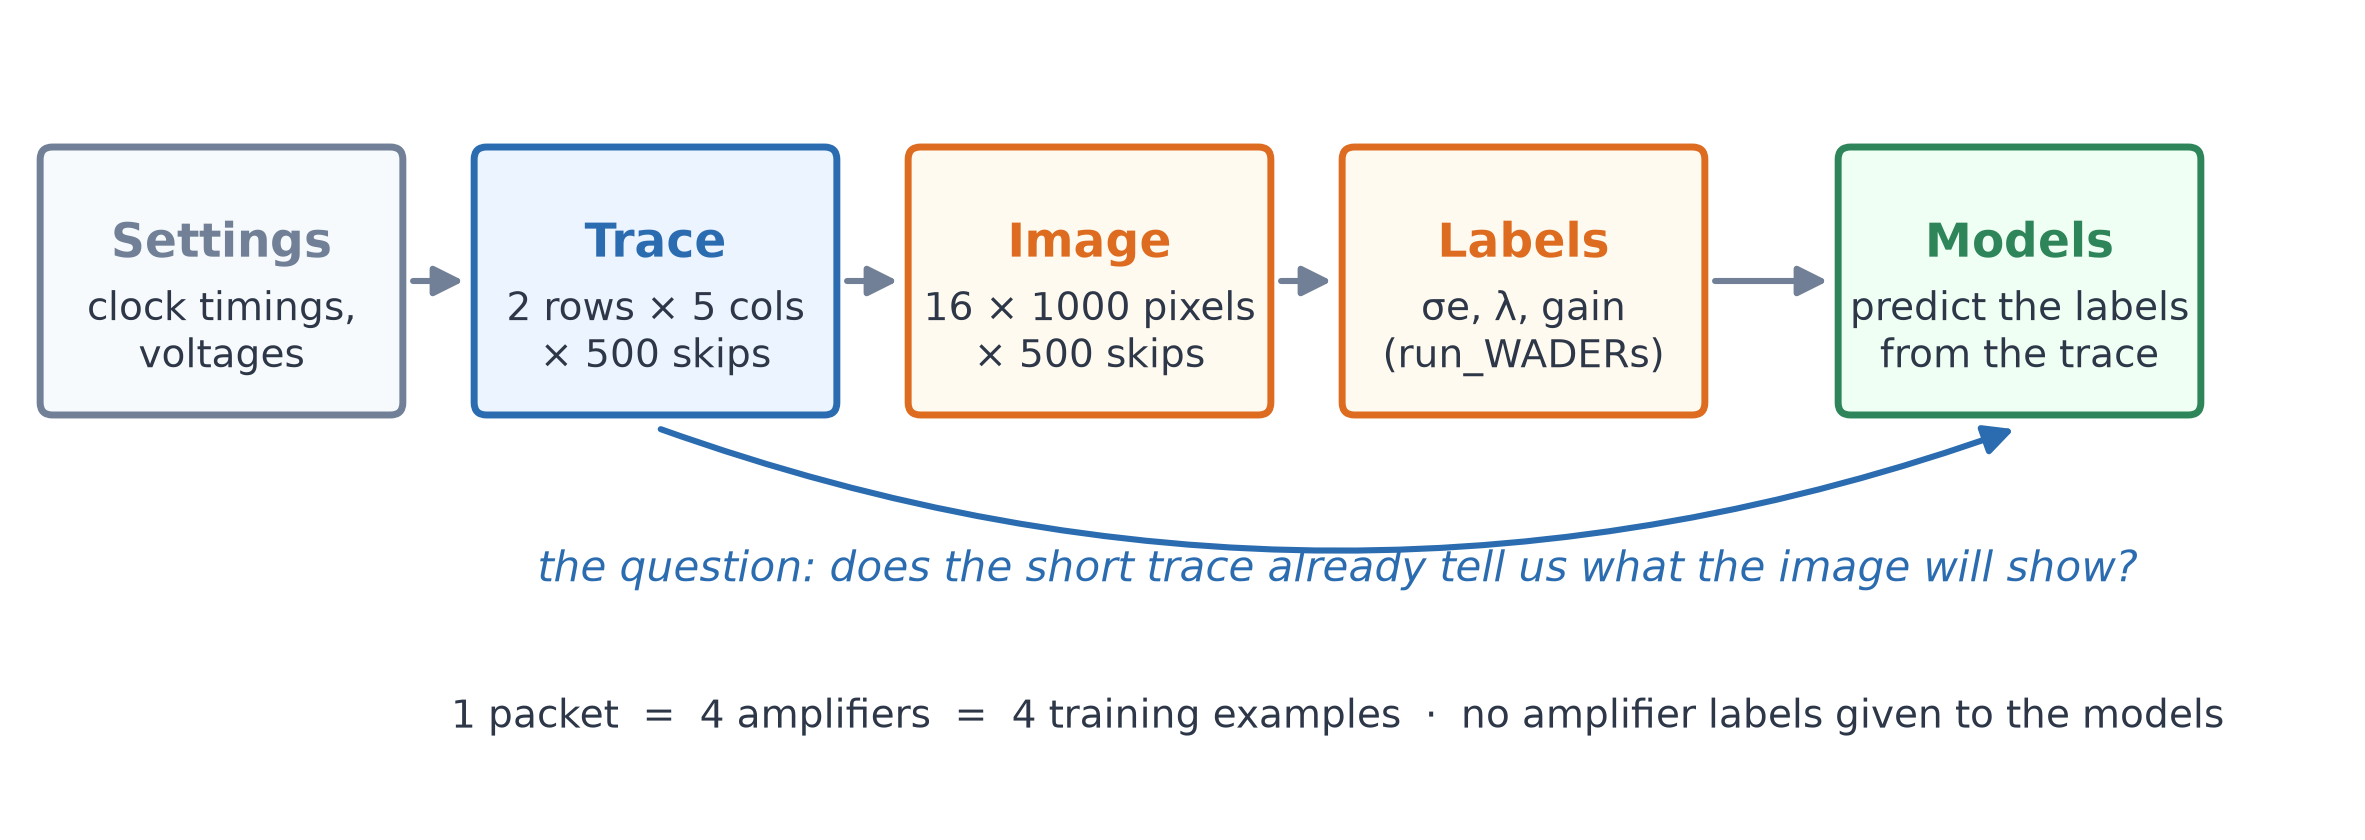
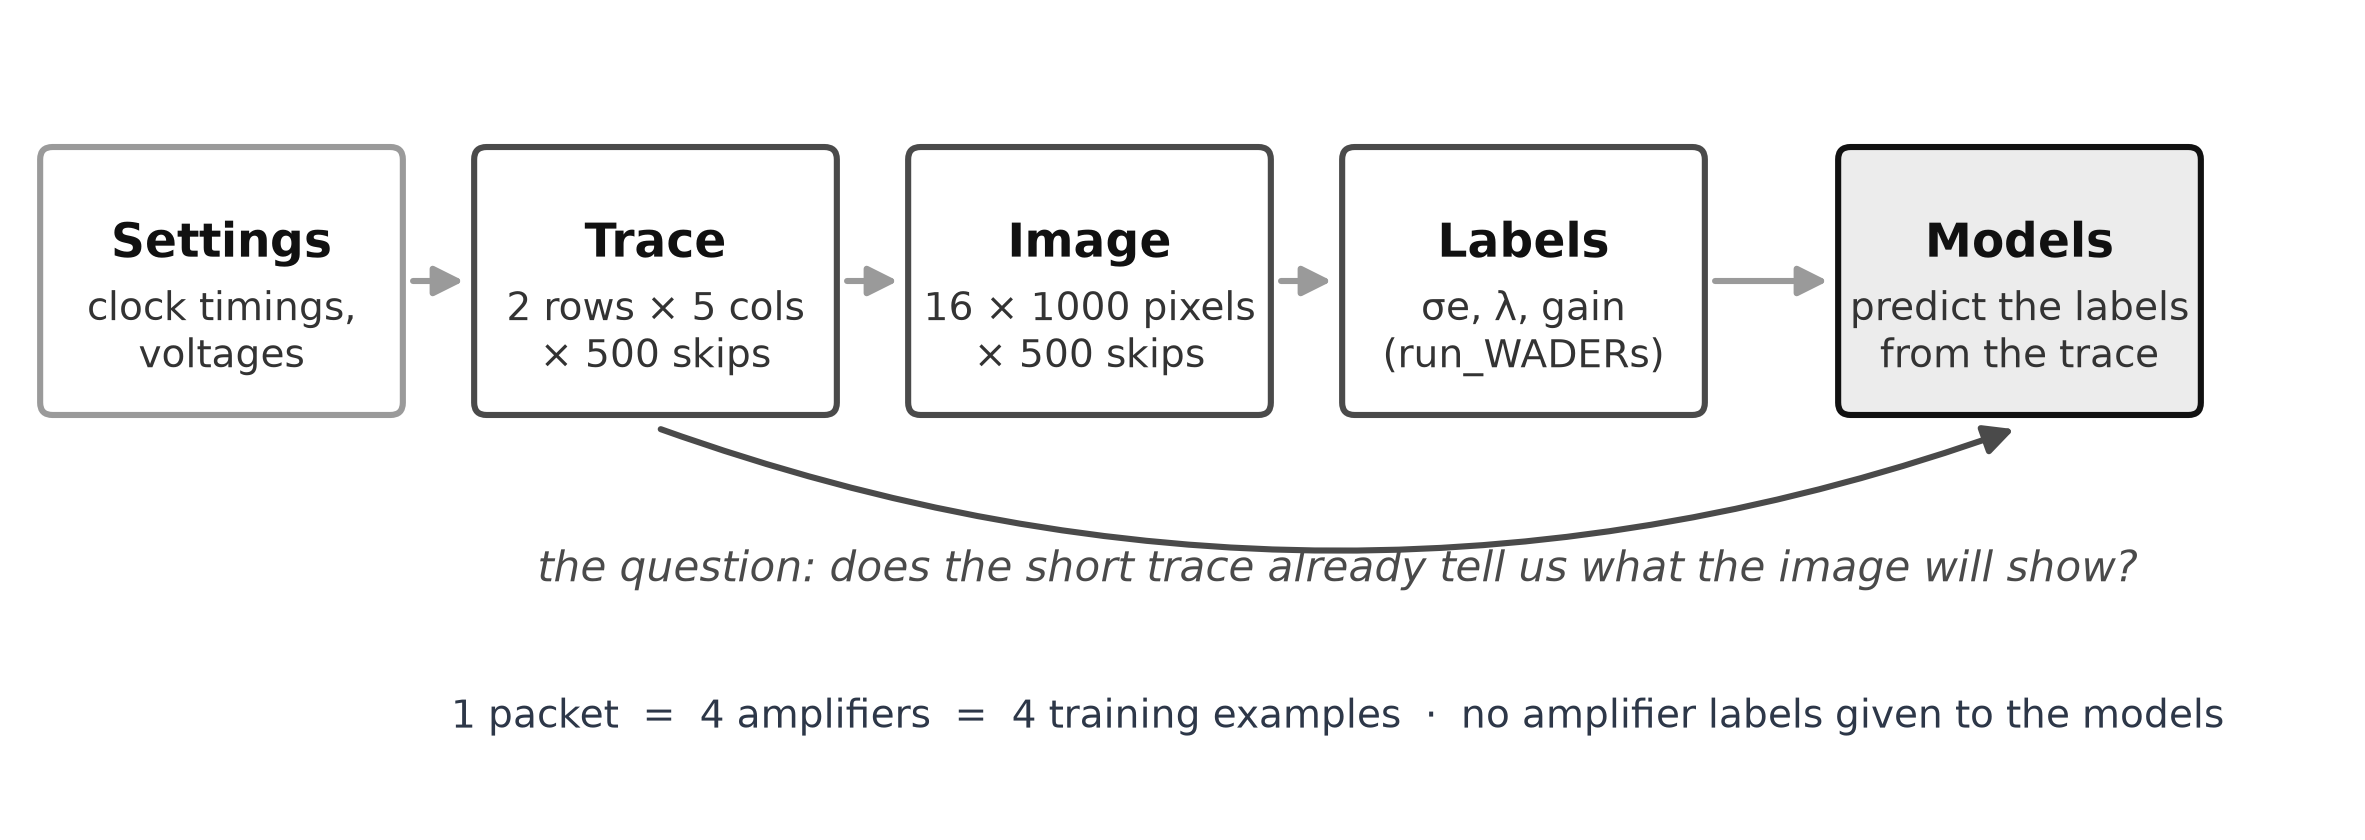
Slide deck v2: black-and-white diagrams, coloured data plots; new figures for the trace (anatomy from a real 2026-10-12 trace, Allan deviation and spectrum from trace_features), the processing pipeline and packet-grouped testing

diff --git a/docs/slides/make_slide_figures.py b/docs/slides/make_slide_figures.py
@@ -37,21 +37,24 @@ COMM = Path.home() / "Documents" / "Software" / "comm_scripts" / "docs"
 IMAGE_130 = ROOT / "data" / "2026-10-16-PA03_PQ04_16rows" / "avg_img_16x1000x500_1x1_L2_101_20261016_202914_130.fits.bz2"
 sys.path.insert(0, str(ROOT / "src"))
 
-# one colour per idea, on every slide
-TRACE, IMAGE, MODEL, GREY, RED = "#2b6cb0", "#dd6b20", "#2f855a", "#718096", "#c53030"
-LIGHT = {TRACE: "#ebf4ff", IMAGE: "#fffaf0", MODEL: "#f0fff4", GREY: "#f7fafc", RED: "#fff5f5"}
+# black and white (the deck's style): black = the result / after, light grey = before / baseline, dark grey = other
+TRACE, IMAGE, MODEL, GREY, RED = "#4a4a4a", "#4a4a4a", "#111111", "#9a9a9a", "#9a9a9a"
+INK = "#111111"
+# data plots keep colour (diagrams stay black and white): bad/before, good/after, a third series, neutral
+P_BAD, P_GOOD, P_BLUE, P_GREY = "#c53030", "#2f855a", "#2b6cb0", "#a0aec0"
+LIGHT = {TRACE: "#ffffff", MODEL: "#ececec", GREY: "#ffffff"}
 plt.rcParams.update({"font.size": 15, "axes.titlesize": 17, "axes.labelsize": 15, "axes.spines.top": False,
                      "axes.spines.right": False, "savefig.dpi": 200, "savefig.bbox": "tight", "font.family": "DejaVu Sans"})
 
 
 def box(ax, x, y, w, h, text, color, size=14, weight="normal", sub=None):
     ax.add_patch(FancyBboxPatch((x - w / 2, y - h / 2), w, h, boxstyle="round,pad=0.02,rounding_size=0.08",
-                                fc=LIGHT.get(color, "white"), ec=color, lw=2.5))
+                                fc=LIGHT.get(color, "white"), ec=color, lw=2.2))
     if sub:
-        ax.text(x, y + h * 0.14, text, ha="center", va="center", fontsize=size, weight="bold", color=color)
-        ax.text(x, y - h * 0.2, sub, ha="center", va="center", fontsize=size - 3, color="#2d3748")
+        ax.text(x, y + h * 0.14, text, ha="center", va="center", fontsize=size, weight="bold", color=INK)
+        ax.text(x, y - h * 0.2, sub, ha="center", va="center", fontsize=size - 3, color="#333333")
     else:
-        ax.text(x, y, text, ha="center", va="center", fontsize=size, weight=weight, color=color)
+        ax.text(x, y, text, ha="center", va="center", fontsize=size, weight=weight, color=INK)
 
 
 def arrow(ax, x0, y0, x1, y1, color=GREY):
@@ -97,7 +100,7 @@ def s1_levels():
         x, y = 1.6 + i * 2.9, 0.9 + i * 1.05
         box(ax, x, y, 2.75, 1.25, name, c, size=15, sub=f"{what}\n{how}")
         if now:
-            ax.text(x, y - 0.95, "◀ we are here", ha="center", fontsize=14, color=MODEL, weight="bold")
+            ax.text(x, y - 0.95, "◀ we are here", ha="center", fontsize=14, color=INK, weight="bold")
     fig.savefig(OUT / "s1_levels.png")
     plt.close(fig)
 
@@ -111,14 +114,14 @@ def s2_drift_profile():
     rep = idr.correct_image(IMAGE_130, corr_dir, "200", 0.05, 400, [0, 1, 3])
     fig, axes = plt.subplots(1, 2, figsize=(15, 5), sharey=True)
     for ax, ch in zip(axes, (0, 1)):
-        for path, shift, color, label in ((IMAGE_130, 0, RED, "as read out"), (Path(rep["output"]), rep["cut"], MODEL, "after the drift step")):
+        for path, shift, color, label in ((IMAGE_130, 0, P_BAD, "as read out"), (Path(rep["output"]), rep["cut"], P_GOOD, "after the drift step")):
             h = open_any(Path(path))
             hd = [x for x in h[1:] if getattr(x, "data", None) is not None and x.data.ndim == 2]
             na = idr.n_active(h[0].header, hd[0].data.shape[1])
             pr = analyse_channel(hd[ch].data.astype(float), na, 0.05)["profile"]
             ok = np.isfinite(pr["off"])
-            ax.errorbar(pr["c"][ok] + shift, pr["off"][ok], pr["off_err"][ok], fmt="o-", ms=4, lw=1.5, color=color,
-                        label=label, capsize=0)
+            ax.errorbar(pr["c"][ok] + shift, pr["off"][ok], pr["off_err"][ok], fmt="o-", ms=5, lw=1.5, color=color,
+                        mfc=color, label=label, capsize=0)
         ax.axvspan(0, rep["cut"], color=GREY, alpha=0.12)
         ax.text(rep["cut"] / 2, -0.95, f"first {rep['cut']}\ncolumns\ncut", ha="center", fontsize=12, color=GREY)
         ax.axhline(0, color="k", lw=1)
@@ -139,7 +142,7 @@ def s2_chi2():
     fig, ax = plt.subplots(figsize=(8, 5))
     chans = sorted(df["channel"].unique())
     x = np.arange(len(chans))
-    for k, (version, color, dx) in enumerate((("as is", RED, -0.2), ("drift-corrected", MODEL, 0.2))):
+    for k, (version, color, dx) in enumerate((("as is", P_BAD, -0.2), ("drift-corrected", P_GOOD, 0.2))):
         sub = df[df["version"] == version]
         med = [sub[sub.channel == c]["chi2ndf"].median() for c in chans]
         ax.bar(x + dx, med, 0.38, color=color, label=version)
@@ -187,8 +190,8 @@ def s3_label_error():
     rep = ROOT / "lvl1" / "rehearsal_report"
     fig, ax = plt.subplots(figsize=(9, 5))
     names = [("sigma_e", "σe"), ("lambda", "λ"), ("gain", "gain")]
-    for k, (fname, color, dx, label) in enumerate((("4_check_json.md", RED, -0.17, "hand-written JSON"),
-                                                    ("4_check_run_WADERs.md", MODEL, 0.17, "run_WADERs"))):
+    for k, (fname, color, dx, label) in enumerate((("4_check_json.md", P_BAD, -0.17, "hand-written JSON"),
+                                                    ("4_check_run_WADERs.md", P_GOOD, 0.17, "run_WADERs"))):
         df = _rehearsal_table(rep / fname)
         df = df[df["flags"] == ""]
         for i, (q, _) in enumerate(names):
@@ -220,8 +223,8 @@ def s3_fit_quality_table():
         cell.set_edgecolor("#cbd5e0")
         if r == 0:
             cell.set_height(cell.get_height() * 1.7)
-            cell.set_facecolor(LIGHT[MODEL])
-            cell.set_text_props(weight="bold", color=MODEL)
+            cell.set_facecolor("#ececec")
+            cell.set_text_props(weight="bold", color=INK)
     ax.set_title("fit_quality.csv  (image 130, after the drift step)", fontsize=15, family="monospace")
     fig.savefig(OUT / "s3_fit_quality_table.png")
     plt.close(fig)
@@ -251,16 +254,19 @@ def s4_model_errors():
     for ax, t, name in zip(axes, ("sigma_e", "lambda"), ("read noise σe", "dark charge λ")):
         base = df[(df.model == "mean")][t].mean()
         m = df[df.model != "mean"].groupby("model")[t].agg(["mean", "min", "max"]).reindex(order).dropna()
-        colors = [MODEL if k.startswith(("physics", "sets")) else (TRACE if k in ("cnn", "pretrained", "deep_kernel") else GREY) for k in m.index]
+        colors = [P_GOOD if k.startswith(("physics", "sets")) else (P_BLUE if k in ("cnn", "pretrained", "deep_kernel") else P_GREY) for k in m.index]
         y = np.arange(len(m))
         ax.barh(y, m["mean"], color=colors, xerr=[m["mean"] - m["min"], m["max"] - m["mean"]], ecolor="#4a5568", capsize=3)
-        ax.axvline(base, color=RED, ls="--", lw=2)
-        ax.text(base, len(m) - 0.4, f"  predict the average: {base:.0f} %", color=RED, fontsize=12, va="center")
+        ax.axvline(base, color=P_BAD, ls="--", lw=2)
+        ax.text(base, len(m) - 0.4, f"  predict the average: {base:.0f} %", color=P_BAD, fontsize=12, va="center")
         ax.set_yticks(y, m.index)
         ax.invert_yaxis()
         ax.set_xlabel("typical error [%]")
         ax.set_title(name)
         ax.set_xlim(0, base * 1.35)
+    from matplotlib.patches import Patch
+    axes[1].legend(handles=[Patch(color=P_GREY, label="settings / hand-made features"), Patch(color=P_BLUE, label="neural networks"),
+                            Patch(color=P_GOOD, label="physics-based")], frameon=False, loc="lower right", fontsize=12)
     fig.suptitle("Synthetic test, 41 packets (the planned dataset): bar = mean of 3 datasets, line = range", fontsize=16, y=1.02)
     fig.savefig(OUT / "s4_model_errors.png")
     plt.close(fig)
@@ -271,11 +277,11 @@ def s4_saas():
     before, after = [19.1, 10.9, 4.9], [15.1, 7.4, 3.9]
     fig, ax = plt.subplots(figsize=(7, 4.5))
     x = np.arange(3)
-    ax.bar(x - 0.19, before, 0.36, color=GREY, label="before")
-    ax.bar(x + 0.19, after, 0.36, color=MODEL, label="SAAS GP")
+    ax.bar(x - 0.19, before, 0.36, color=P_GREY, label="before")
+    ax.bar(x + 0.19, after, 0.36, color=P_GOOD, label="SAAS GP")
     for i in range(3):
         ax.text(x[i] - 0.19, before[i] + 0.3, f"{before[i]:.1f}", ha="center", fontsize=12)
-        ax.text(x[i] + 0.19, after[i] + 0.3, f"{after[i]:.1f}", ha="center", fontsize=12, color=MODEL, weight="bold")
+        ax.text(x[i] + 0.19, after[i] + 0.3, f"{after[i]:.1f}", ha="center", fontsize=12, color=P_GOOD, weight="bold")
     ax.set_xticks(x, [f"{s} packets" for s in sizes])
     ax.set_ylabel("λ error [%]")
     ax.set_title("Physics model: λ with a SAAS GP")
@@ -293,8 +299,8 @@ def s5_timeline():
     scale = 14.4 / 41
     for name, what, n, hours, c in sessions:
         w = n * scale
-        ax.add_patch(FancyBboxPatch((x, 1.0), w - 0.12, 1.1, boxstyle="round,pad=0.02,rounding_size=0.1", fc=LIGHT[c], ec=c, lw=2.5))
-        ax.text(x + w / 2, 1.75, f"Session {name}: {n} packets", ha="center", fontsize=15, weight="bold", color=c)
+        ax.add_patch(FancyBboxPatch((x, 1.0), w - 0.12, 1.1, boxstyle="round,pad=0.02,rounding_size=0.1", fc="white", ec=INK, lw=2.2))
+        ax.text(x + w / 2, 1.75, f"Session {name}: {n} packets", ha="center", fontsize=15, weight="bold", color=INK)
         ax.text(x + w / 2, 1.3, f"{what} · ~{hours} h", ha="center", fontsize=12.5, color="#2d3748")
         x += w
     ax.text(0.3, 0.45, "first lvl-1 report possible after session A", fontsize=13, color=TRACE, style="italic")
@@ -322,8 +328,168 @@ def gc_figures():
     _crop("gain_correction_Am241.pdf", 2, (0.0, 0.551, 1.0, 1.0), "gc_am241")
 
 
+# --------------------------------------------------------------------------- the trace
+TRACE_FILE = ROOT / "data" / "2026-10-12-PA03_PQ04_Packet_Tests" / "trace_2x5x500_20x20_ch0_101_20261012_185604_32.RJ45ADCDATA0"
+PIXEL = 3          # a pixel that does not start a row
+
+
+def _trace():
+    import json
+    from decode_trace import SAMPLE_RATE_HZ, decode_trace
+    from trace_regions import split_regions
+    t = decode_trace(TRACE_FILE)
+    meta = json.loads(TRACE_FILE.with_suffix(".meta").read_text())
+    return t, split_regions(t, meta), SAMPLE_RATE_HZ
+
+
+def t_trace_anatomy():
+    t, r, fs = _trace()
+    v = t.values.astype(float)
+    fig = plt.figure(figsize=(16, 8.2))
+    gs = fig.add_gridspec(2, 2, height_ratios=[1, 1.05], hspace=0.45, wspace=0.22)
+    # (a) the whole trace: min/max envelope
+    ax = fig.add_subplot(gs[0, :])
+    nb = 4000
+    edges = np.linspace(0, len(v), nb + 1).astype(int)
+    lo = np.array([v[a:b].min() for a, b in zip(edges[:-1], edges[1:])])
+    hi = np.array([v[a:b].max() for a, b in zip(edges[:-1], edges[1:])])
+    tm = edges[:-1] / fs * 1e3
+    for k, (a, b) in enumerate(r.skip_bounds):
+        ax.axvspan(a / fs * 1e3, b / fs * 1e3, color="#e4e4e4", lw=0)
+        ax.text((a + b) / 2 / fs * 1e3, 1.02, f"pixel {k + 1}", transform=ax.get_xaxis_transform(), ha="center", fontsize=11)
+    if r.v_bounds:
+        ax.axvspan(r.v_bounds[0] / fs * 1e3, r.v_bounds[1] / fs * 1e3, color="#b0b0b0", lw=0)
+        ax.text(np.mean(r.v_bounds) / fs * 1e3, 0.05, "row\nchange", transform=ax.get_xaxis_transform(), ha="center", fontsize=11)
+    ax.fill_between(tm, lo, hi, color=P_BLUE, lw=0)
+    ax.set_xlim(0, len(v) / fs * 1e3)
+    ax.set_xlabel("time [ms]")
+    ax.set_ylabel("ADC [ADU]")
+    ax.set_title("A whole trace: 2 rows × 5 pixels, each pixel read 500 times (grey bands)", pad=26)
+    # (b) three skip cycles of one pixel
+    ax = fig.add_subplot(gs[1, 0])
+    ps, pe = t.window_slices()
+    ss, se = t.signal_window_slices()
+    a0, b0 = r.skip_bounds[PIXEL]
+    k = np.flatnonzero(ps >= a0)[20]
+    a, b = ps[k] - 40, ps[k] + 3 * r.period
+    x = (np.arange(a, b) - a) / fs * 1e6
+    for s_, e_ in zip(ps, pe):
+        if a <= s_ < b:
+            ax.axvspan((s_ - a) / fs * 1e6, (e_ - a) / fs * 1e6, color="#d0d0d0", lw=0)
+    for s_, e_ in zip(ss, se):
+        if a <= s_ < b:
+            ax.axvspan((s_ - a) / fs * 1e6, (e_ - a) / fs * 1e6, facecolor="white", edgecolor="#555555", hatch="///", lw=0)
+    ax.plot(x, v[a:b] - np.median(v[a:b]), color=P_BLUE, lw=1.4)
+    ax.set_ylim(-30000, 60000)
+    ax.set_xlabel("time [µs]")
+    ax.set_ylabel("ADC [ADU]")
+    ax.set_title("Zoom: three reads (skips) of one pixel")
+    from matplotlib.patches import Patch
+    ax.legend(handles=[Patch(color="#d0d0d0", label="pedestal window"), Patch(facecolor="white", edgecolor="#555555", hatch="///", label="signal window")],
+              frameon=False, loc="upper left", fontsize=12)
+    # (c) CDS per skip
+    ax = fig.add_subplot(gs[1, 1])
+    c = np.asarray(r.cds[PIXEL], float)
+    ax.plot(np.arange(len(c)), c, "o", ms=3, color=P_BLUE)
+    ax.axhline(np.median(c[10:]), color=GREY, ls="--", lw=1.5)
+    ax.set_ylim(np.median(c) - 120, np.median(c) + 330)
+    ax.annotate("first reads:\nsettling", xy=(1, c[0]), xytext=(60, c[0] - 40), fontsize=12, arrowprops=dict(arrowstyle="->", color=INK))
+    ax.set_xlabel("skip number")
+    ax.set_ylabel("pedestal − signal [ADU]")
+    ax.set_title("One number per skip (CDS): 500 per pixel")
+    fig.savefig(OUT / "t_trace_anatomy.png")
+    plt.close(fig)
+
+
+def t_trace_noise():
+    """The trace's own noise curves, exactly as the models get them (trace_features.py)."""
+    from trace_features import ALLAN_N, trace_features
+    t, r, fs = _trace()
+    import json
+    f = trace_features(t, meta=json.loads(TRACE_FILE.with_suffix(".meta").read_text()), regions=r)
+    fig, axes = plt.subplots(1, 2, figsize=(15, 5.2))
+    ax = axes[0]
+    ns = np.asarray(ALLAN_N, float)
+    m = np.asarray(f.curves["noise: Allan deviation, common pattern removed"], float)
+    ax.loglog(ns, m, "o-", color=P_BLUE, ms=7, lw=2, label="this trace")
+    ax.loglog(ns, m[0] / np.sqrt(ns), "--", color=GREY, lw=2, label="pure white noise: 1/√n")
+    ax.set_xlabel("skips averaged, n")
+    ax.set_ylabel("Allan deviation [ADU]")
+    ax.set_title("Averaging skips: how fast the noise falls")
+    ax.legend(frameon=False, fontsize=12)
+    ax = axes[1]
+    spec = np.asarray(f.curves["noise: CDS spectrum"], float)
+    fr = np.linspace(0, 15.0, len(spec))
+    ax.semilogy(fr[2:], spec[2:], color=P_BLUE, lw=1.5)
+    ax.set_xlabel("frequency [kHz]")
+    ax.set_ylabel("power [ADU²/Hz]")
+    ax.set_title("Which frequencies the noise lives at")
+    fig.savefig(OUT / "t_trace_noise.png")
+    plt.close(fig)
+
+
+# --------------------------------------------------------------------------- processing and testing
+def p_processing():
+    fig, ax = canvas(19, 6.6, (0, 19), (0, 6.6))
+    box(ax, 1.55, 3.3, 2.9, 1.7, "manual_packet.sh", INK, size=14, sub="on the DAQ:\nqueue the packet,\nwrite its record")
+    box(ax, 4.6, 3.3, 2.6, 1.7, "manifest", INK, size=14, sub="settings read back,\nchanges checked")
+    arrow(ax, 3.0, 3.3, 3.25, 3.3, INK)
+    ax.add_patch(FancyBboxPatch((6.0, 0.55), 7.1, 5.4, boxstyle="round,pad=0.02,rounding_size=0.12", fc="#f6f6f6", ec=GREY, lw=1.5, ls="--"))
+    ax.text(9.55, 5.65, "process_packet.py", ha="center", fontsize=15, weight="bold", family="monospace")
+    ax.text(6.25, 4.95, "traces", fontsize=13, style="italic")
+    ax.text(6.25, 2.15, "image", fontsize=13, style="italic")
+    lanes = [(4.0, [("decode", "quality check"), ("features", "85 numbers,\n14 curves"), ("combine", "repeated sets")]),
+             (1.35, [("drift step", "detect, cut,\ncorrect"), ("run_WADERs", "σe, λ, gain\n+ flags"), ("λ per row", "dark current\n+ CIC")])]
+    for y, steps in lanes:
+        for i, (t, s) in enumerate(steps):
+            box(ax, 7.2 + i * 2.35, y, 2.05, 1.45, t, TRACE, size=13, sub=s)
+            if i:
+                arrow(ax, 7.2 + (i - 1) * 2.35 + 1.05, y, 7.2 + i * 2.35 - 1.05, y, INK)
+    arrow(ax, 5.95, 3.6, 6.15, 4.0, INK)
+    arrow(ax, 5.95, 3.0, 6.15, 1.35, INK)
+    box(ax, 14.8, 4.3, 2.6, 1.5, "dataset.csv", INK, size=14, sub="one row per\namplifier")
+    box(ax, 14.8, 2.1, 2.6, 1.5, "model_inputs", MODEL, size=14, sub="5 files, one per\nmodel family")
+    arrow(ax, 13.15, 3.3, 13.45, 4.3, INK)
+    arrow(ax, 14.8, 3.5, 14.8, 2.9, INK)
+    box(ax, 17.6, 2.1, 2.3, 1.5, "train_lvl1.py", MODEL, size=14, sub="train, test,\nreport")
+    arrow(ax, 16.15, 2.1, 16.4, 2.1, INK)
+    fig.savefig(OUT / "p_processing.png")
+    plt.close(fig)
+
+
+def m_cv():
+    n_pk, n_amp = 12, 4
+    rng = np.random.default_rng(3)
+    fig, axes = plt.subplots(1, 2, figsize=(15, 4.6))
+    for ax, title, grouped in ((axes[0], "Random split (not used): the same packet's\nother amplifiers end up in training", False),
+                               (axes[1], "Packet-grouped split (used):\nwhole packets are held out", True)):
+        test = np.zeros((n_amp, n_pk), bool)
+        if grouped:
+            test[:, 3:6] = True
+        else:
+            test.flat[rng.choice(n_amp * n_pk, 12, replace=False)] = True
+        for i in range(n_amp):
+            for j in range(n_pk):
+                ax.add_patch(plt.Rectangle((j + 0.06, i + 0.06), 0.88, 0.88, fc=P_BLUE if test[i, j] else "#dcdcdc", ec="white"))
+        ax.set_xlim(0, n_pk)
+        ax.set_ylim(n_amp, 0)
+        ax.set_xticks(np.arange(n_pk) + 0.5, [str(k + 1) for k in range(n_pk)], fontsize=12)
+        ax.set_yticks(np.arange(n_amp) + 0.5, [f"ch{k}" for k in range(n_amp)], fontsize=12)
+        ax.set_xlabel("packet")
+        ax.set_title(title, fontsize=15)
+        for sp in ax.spines.values():
+            sp.set_visible(False)
+        ax.tick_params(length=0)
+    from matplotlib.patches import Patch
+    fig.legend(handles=[Patch(color=P_BLUE, label="predicted (test)"), Patch(color="#dcdcdc", label="used for training")],
+               loc="lower center", ncol=2, frameon=False, fontsize=13, bbox_to_anchor=(0.5, -0.08))
+    fig.savefig(OUT / "m_cv.png")
+    plt.close(fig)
+
+
 FIGURES = {f.__name__: f for f in (s1_pipeline, s1_levels, s2_drift_profile, s2_chi2, s3_runwaders_flow, s3_label_error,
-                                   s3_fit_quality_table, s4_model_ladder, s4_model_errors, s4_saas, s5_timeline, gc_figures)}
+                                   s3_fit_quality_table, s4_model_ladder, s4_model_errors, s4_saas, s5_timeline, gc_figures,
+                                   t_trace_anatomy, t_trace_noise, p_processing, m_cv)}
 
 
 def main():

diff --git a/docs/slides/OUTLINE.md b/docs/slides/OUTLINE.md
@@ -1,5 +1,10 @@
 # Project overview deck: outline (6 slides)
 
+**Built deck (2026-10-20):** https://claude.ai/artifact/6TYq1G1Lz1dzK172GLKDmB, 12 slides in black and white (plots in
+colour): cover · goal · what a trace is (`t_trace_anatomy.png`) · from a trace to numbers (`t_trace_noise.png`) · drift ·
+run_WADERs labels · gain-correction side track · from a packet to training data (`p_processing.png`) · the models (table) ·
+how we test them (`m_cv.png`) · results · next steps. The outline below is the first, 6-slide version.
+
 Figures are in `docs/slides/figures/`; remake them with `.venv/bin/python docs/slides/make_slide_figures.py`.
 Style: at most 3 short callouts per slide; key numbers large; one colour per idea throughout
 (trace = blue, image = orange, model = green, problem = red). Exact numbers go in the speaker notes.
